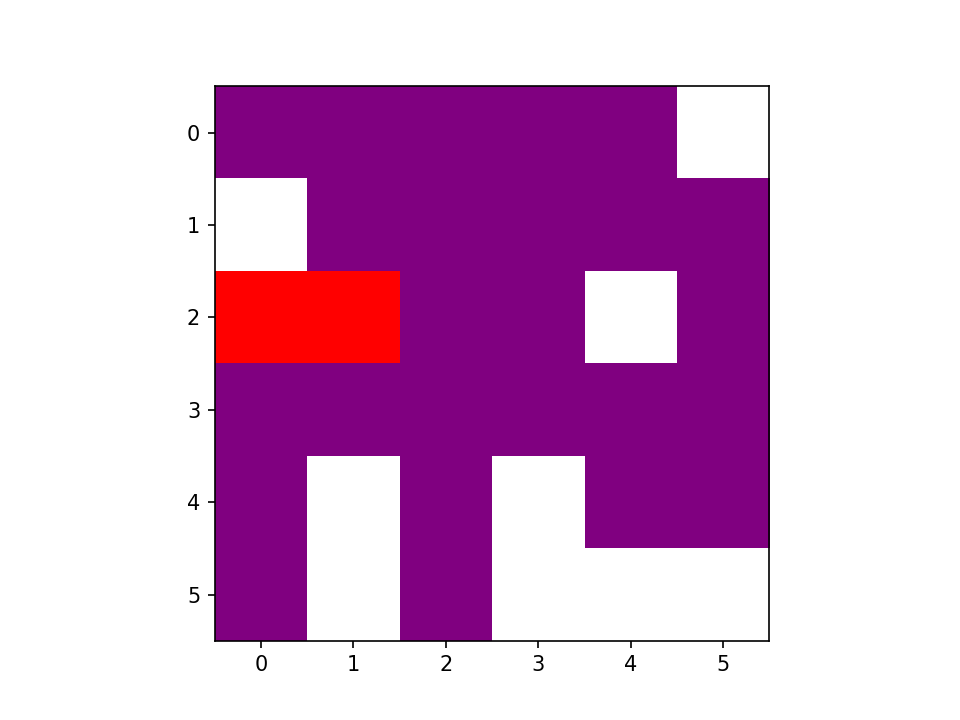
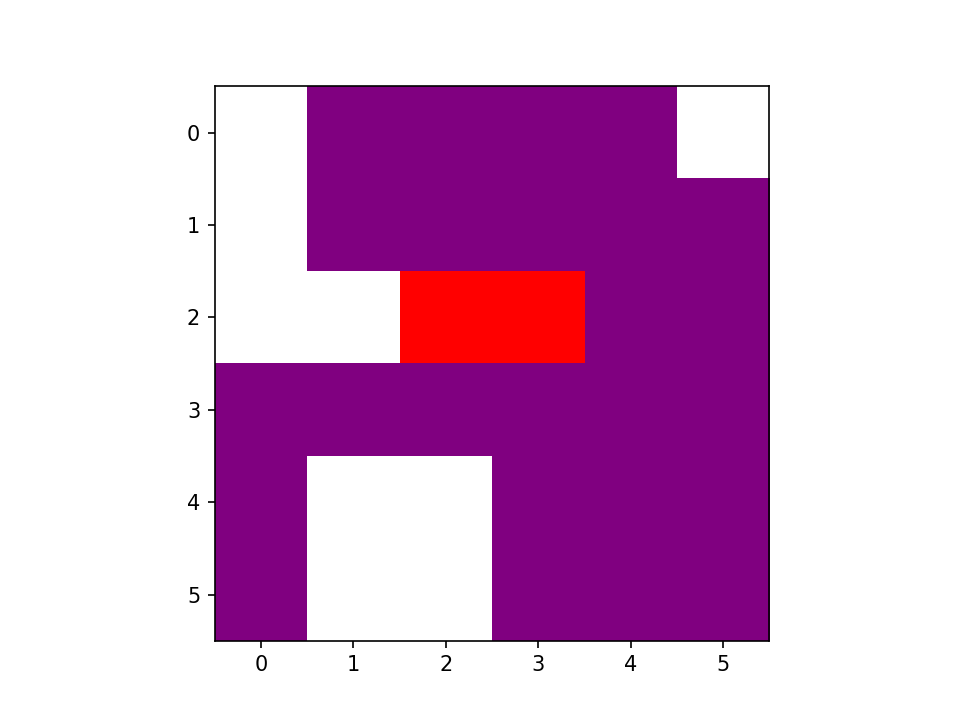
board visualisation by steps as input

Changed region(s): [[0.4062, 0.6111, 0.8125, 0.9167], [0.2188, 0.3667, 0.7188, 0.5194], [0.2188, 0.1222, 0.3438, 0.2444]]

diff --git a/board_visualisation.py b/board_visualisation.py
@@ -19,7 +19,7 @@ from breath_first2 import breath_first
 from depth_first import depth_first
 from improved_random import algoritme1
 
-def visualize_game(board, my_board):
+def create_numpy(board, my_board):
     """ Creates a numpy board """
     
     for i in range(len(board.board)):
@@ -33,10 +33,9 @@ def visualize_game(board, my_board):
     return my_board
 
 
-def main():
+def visualize_board(steps):
     """ Animates rush hour game 6x6_1 """
     count = 0
-    steps = [["A", -1], ["B", -1]]
     cmap = colors.ListedColormap(['white', 'grey', 'green', 'blue', 'pink', 'orange', 'black','purple', 'brown', 'beige', 'yellow', 'turquoise', 'coral', 'red'])
     
     # Creates board
@@ -44,14 +43,14 @@ def main():
     
     # Creates numpy board
     my_board = np.zeros((board.length, board.length))
-    my_board = visualize_game(board, my_board)
+    my_board = create_numpy(board, my_board)
     
     for step in steps:
         for car in board.cars.values():
             if car.name == step[0]:
                 request_car = car
                 board.move(request_car, step[1])
-                my_board = visualize_game(board, my_board)
+                my_board = create_numpy(board, my_board)
         
         fig = plt.gcf()
         im = plt.imshow(my_board, cmap=cmap, animated=True)              
@@ -63,5 +62,6 @@ def main():
     
 
 if __name__ == "__main__":
-    main()
+    steps = [["A", -1], ["B", -1]]
+    visualize_board(steps)
     
